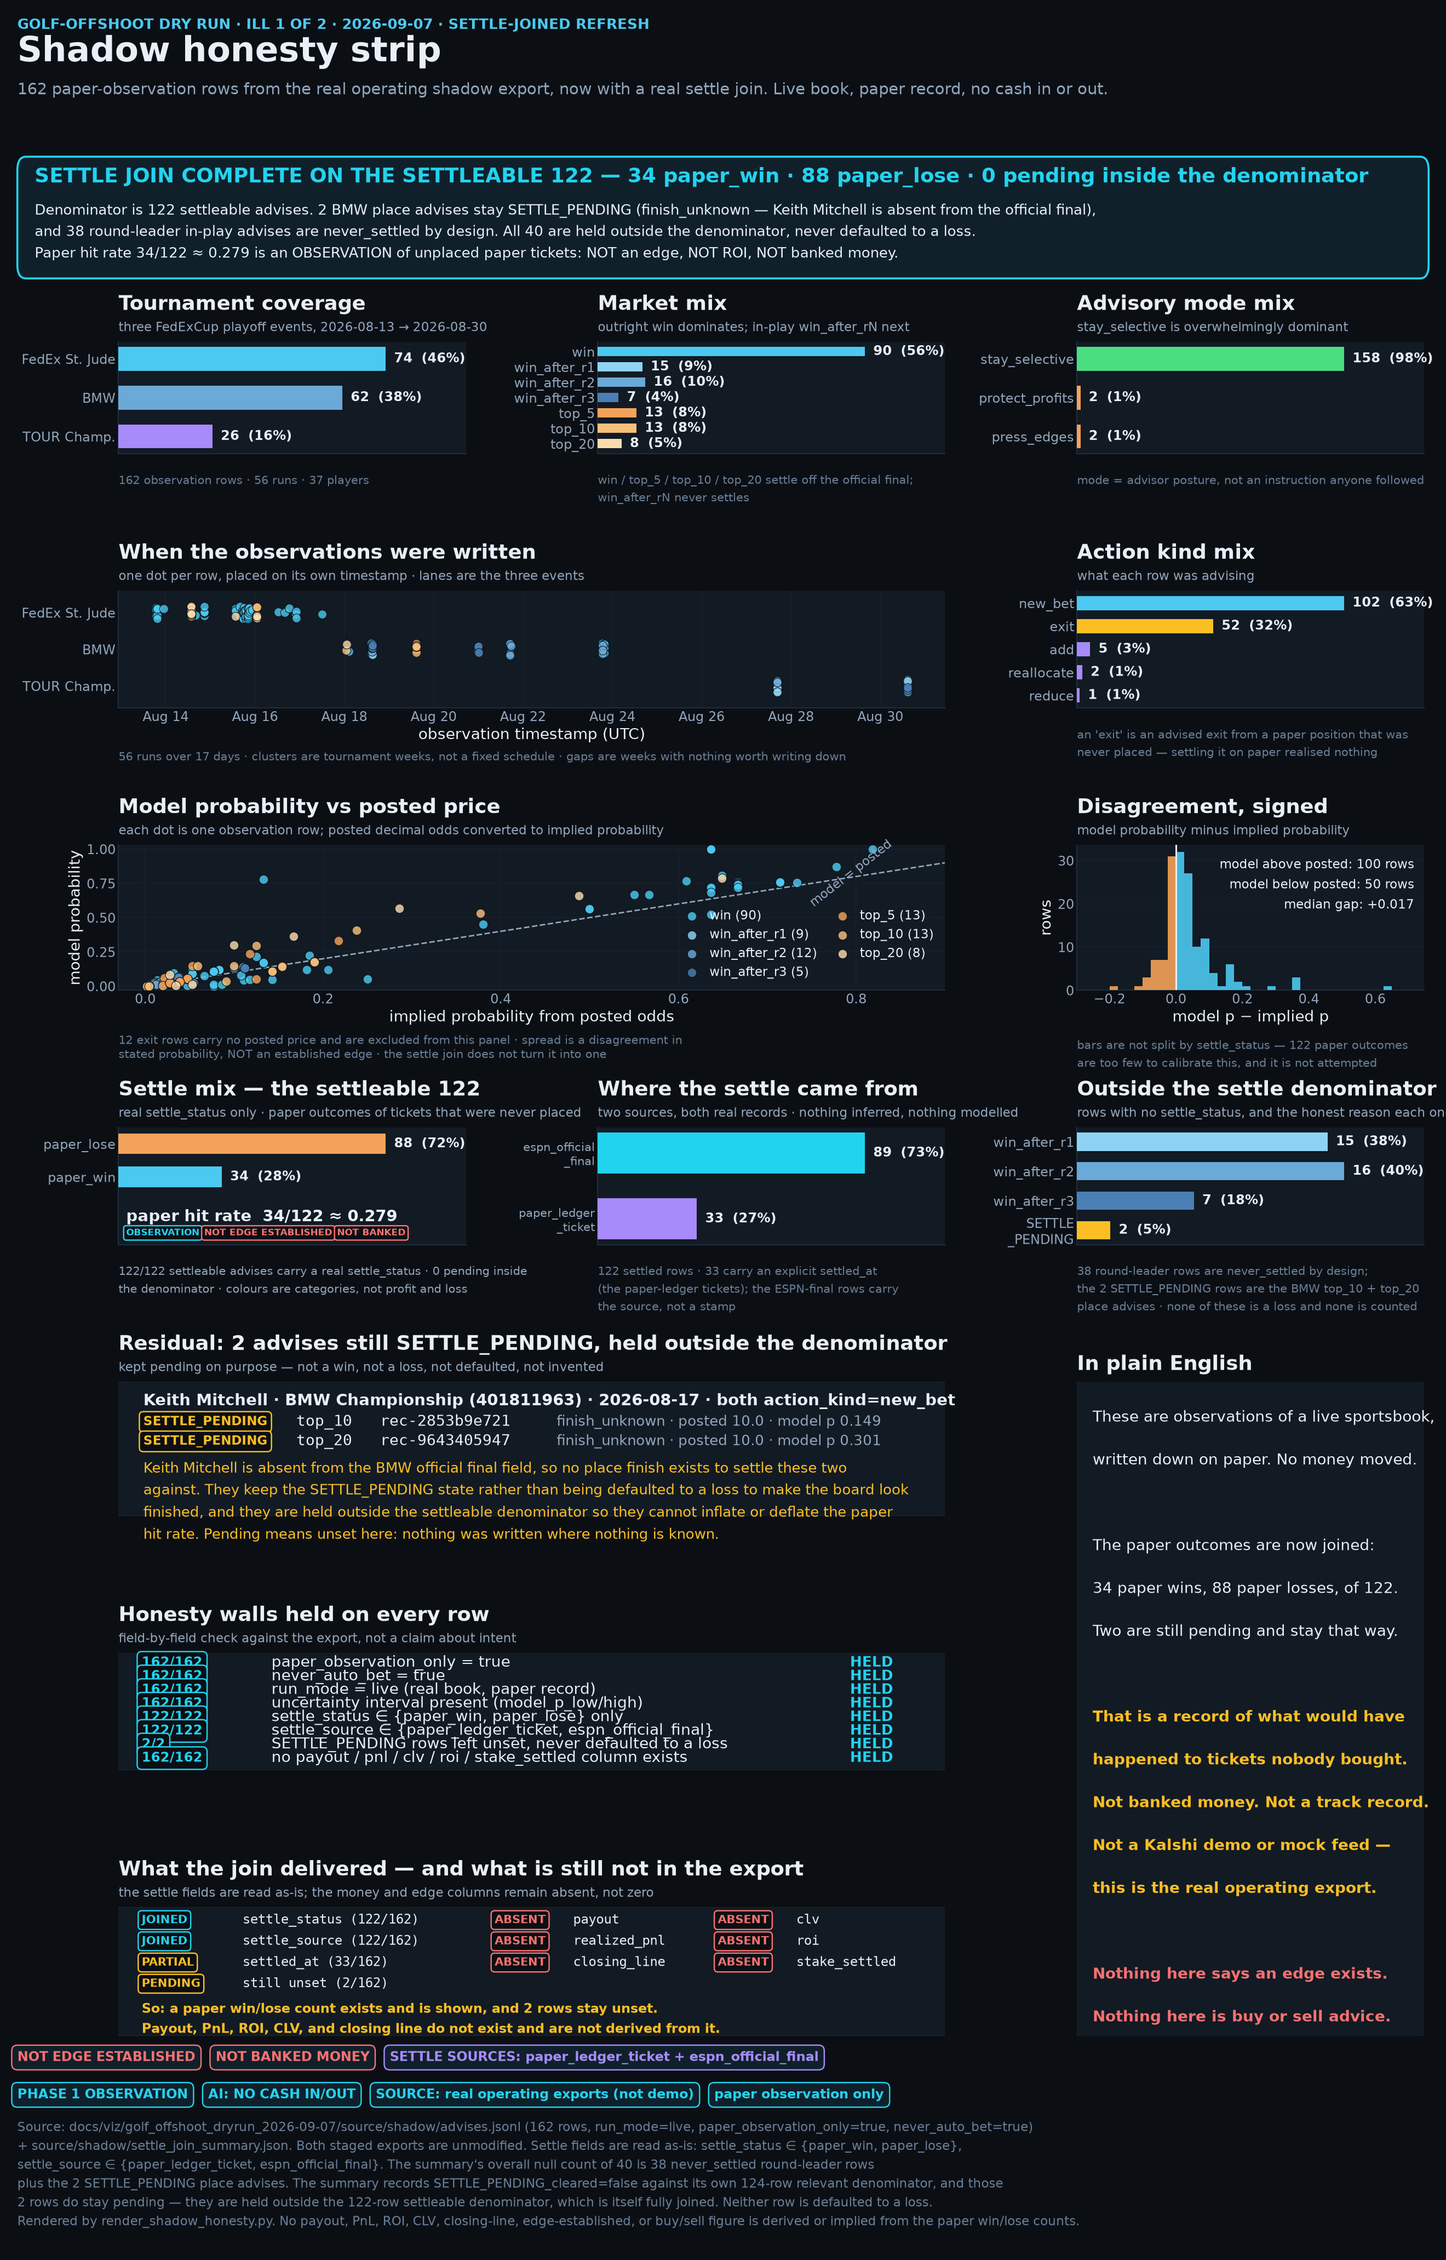
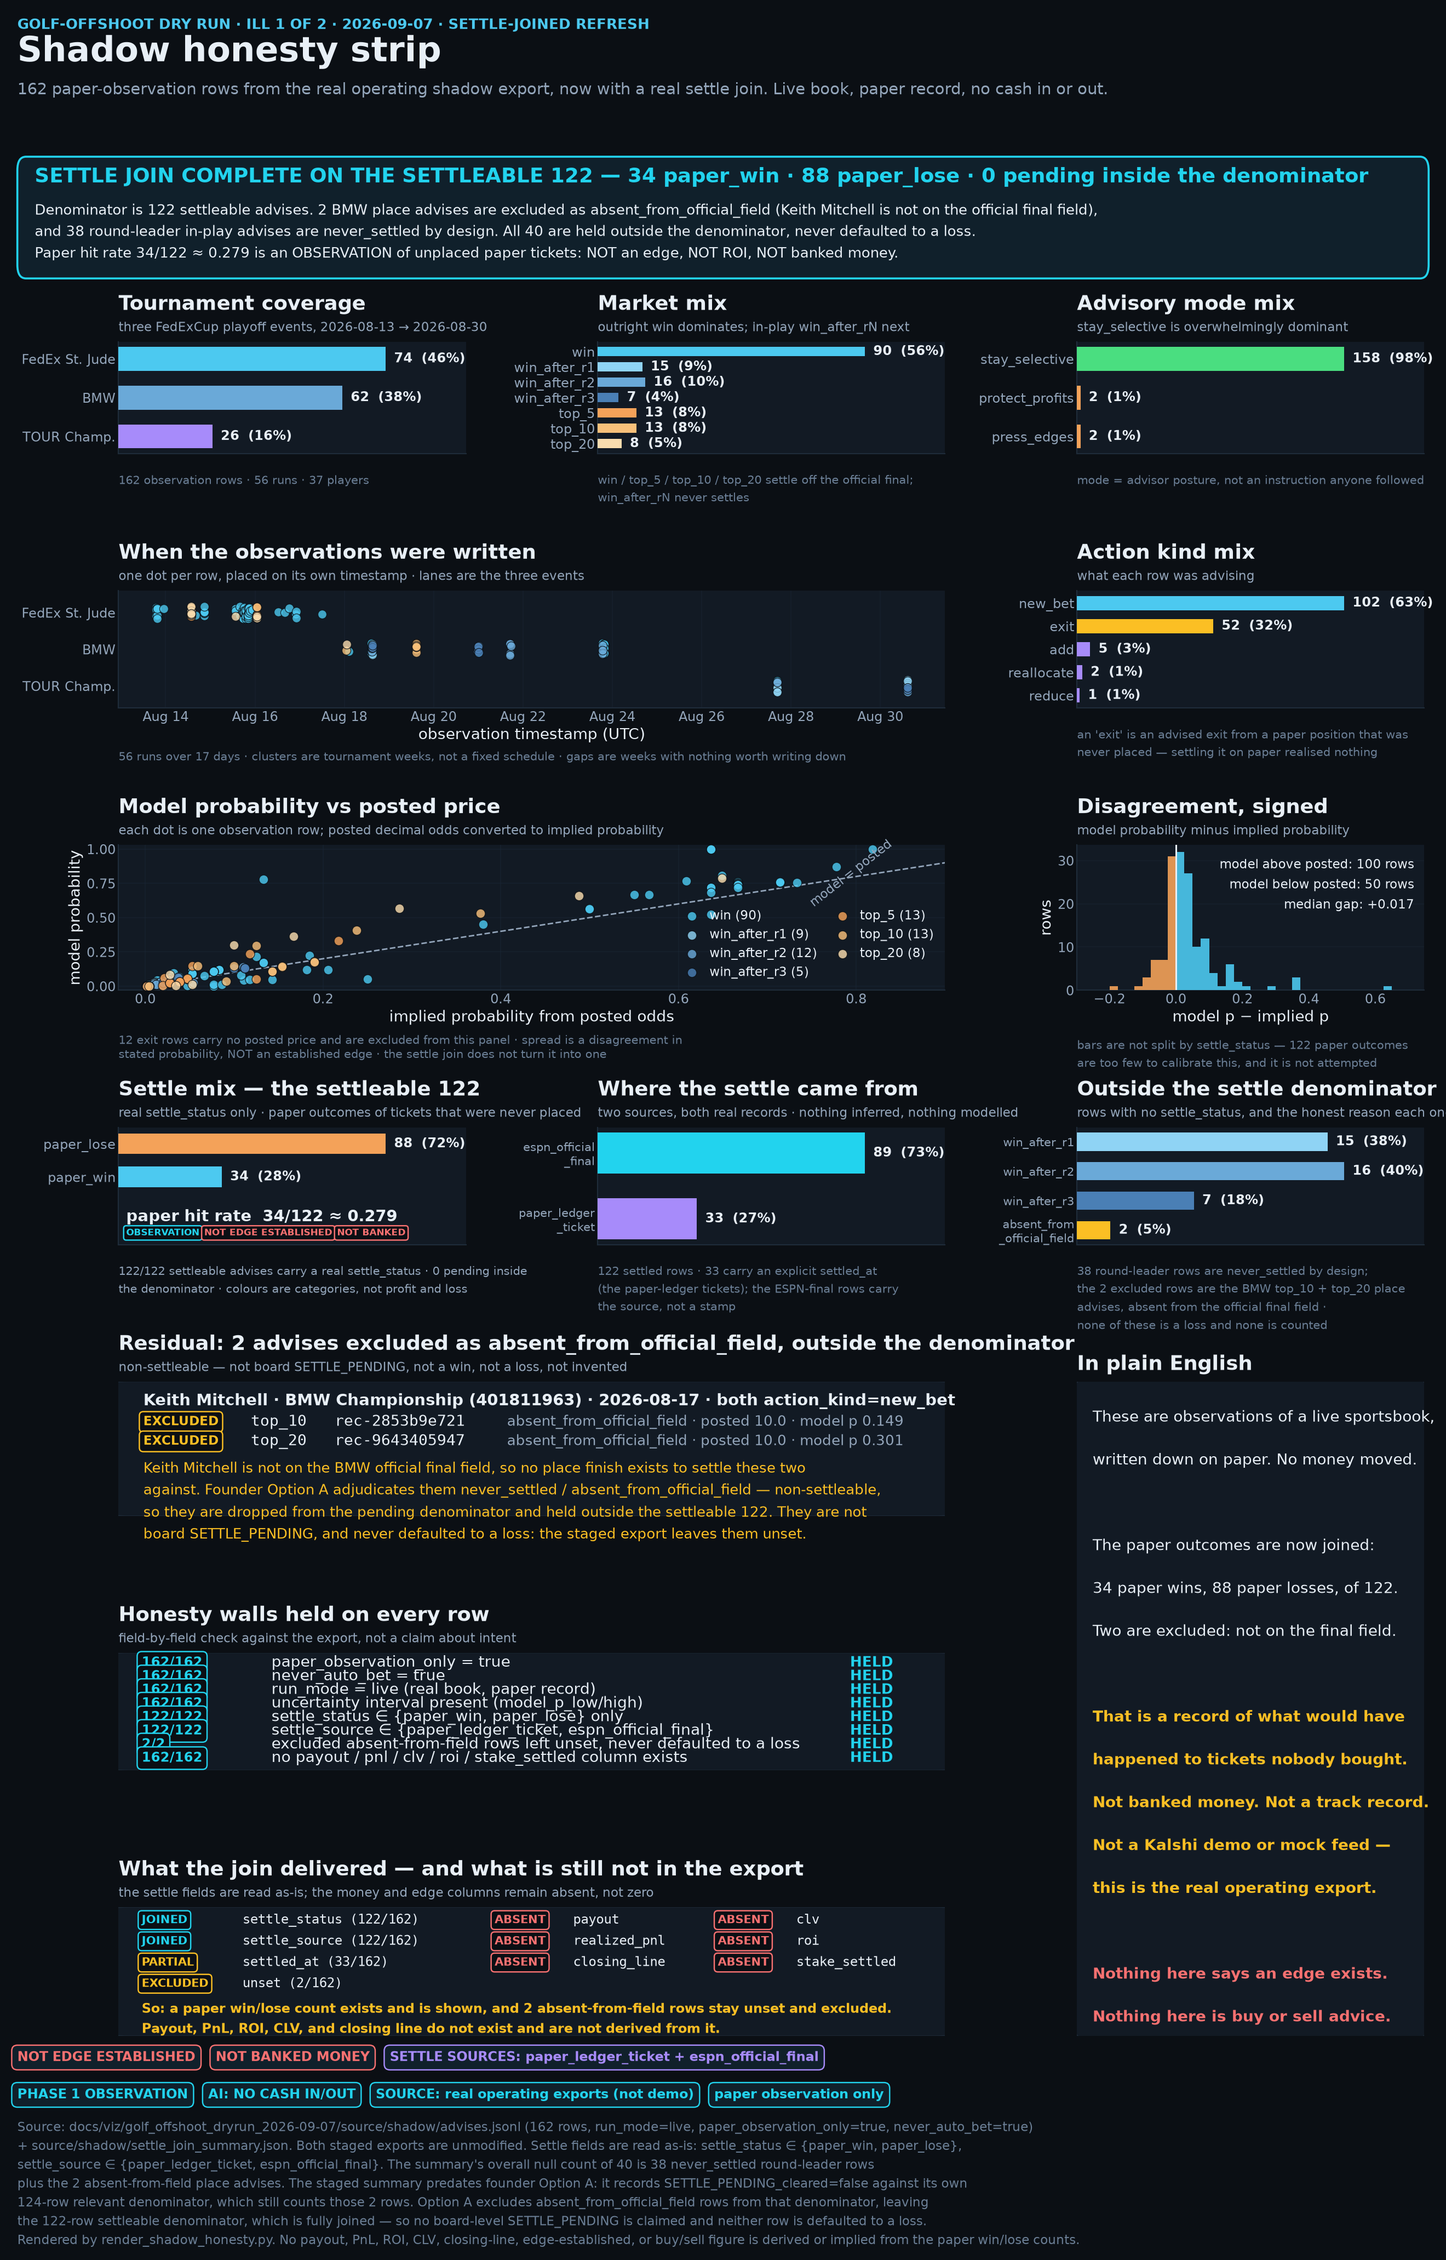
docs(viz): Ill 1 residual is excluded absent_from_official_field, not board SETTLE_PENDING
The 2 Keith Mitchell BMW place advises are adjudicated by founder Option A
(#144) as never_settled with settle_source
espn_official_final:absent_from_official_field: non-settleable, dropped from
the pending denominator. The residual callouts still said they 'keep
SETTLE_PENDING', which reads as a pending board state the board does not have.

Renames SETTLE_PENDING_KEYS -> ABSENT_FIELD_KEYS and the bucket key to
excluded_absent_field, retitles the residual panel, swaps its row chips to
EXCLUDED with the absent_from_official_field token, relabels the
out-of-denominator bar and the join-delivered chip, and restates the banner,
honesty wall, plain-English line and footer reconciliation the same way.

No board-level SETTLE_PENDING badge is reintroduced. Settleable 122 stays
34 paper_win / 88 paper_lose, 34/122 = 0.279 stays an observation with its
OBSERVATION / NOT EDGE ESTABLISHED / NOT BANKED chips, no Mitchell finish is
invented, and no edge, money or ROI claim is added.

diff --git a/docs/viz/golf_offshoot_dryrun_2026-09-07/render_shadow_honesty.py b/docs/viz/golf_offshoot_dryrun_2026-09-07/render_shadow_honesty.py
@@ -15,9 +15,10 @@ Denominator convention (founder Option A, Digestor digest is source of truth):
 
 * 122 **settleable** advises -> 88 ``paper_lose`` / 34 ``paper_win``, nothing pending
   inside the denominator. There is no board-level SETTLE_PENDING badge.
-* 2 BMW place advises stay ``SETTLE_PENDING`` because their finish is unknown (the
-  player is absent from the official final field). They are held outside the
-  denominator rather than guessed at: not wins, not losses, never defaulted.
+* 2 BMW place advises are **excluded** as ``absent_from_official_field``: the player is
+  not on the official STATUS_FINAL finisher list, so no finish exists to settle them
+  against. Non-settleable, dropped from the pending denominator — not board
+  SETTLE_PENDING, not wins, not losses, never defaulted.
 * 38 round-leader in-play advises are ``never_settled`` by design. Honest nulls, not losses.
 
 The paper hit rate is only ever drawn with an OBSERVATION / NOT EDGE ESTABLISHED /
@@ -65,11 +66,13 @@ ROUND_LEADER_MARKETS = {"win_after_r1", "win_after_r2", "win_after_r3"}
 ALLOWED_STATUS = {"paper_win", "paper_lose"}
 ALLOWED_SOURCES = {"paper_ledger_ticket", "espn_official_final"}
 
-# The 2 place advises that stay SETTLE_PENDING: Keith Mitchell did not appear in the
-# BMW Championship official final field, so there is no finish to settle against. They
-# keep the pending state and stay outside the settleable denominator; they are never
-# defaulted to a loss to make the board look finished.
-SETTLE_PENDING_KEYS = {
+# The 2 place advises excluded as absent_from_official_field: Keith Mitchell did not
+# appear in the BMW Championship official final field, so there is no finish to settle
+# against. Founder Option A adjudicates them never_settled / absent-from-field —
+# non-settleable, dropped from the pending denominator, and never defaulted to a loss to
+# make the board look finished. The staged export leaves their settle fields unset.
+ABSENT_FIELD_TOKEN = "absent_from_official_field"
+ABSENT_FIELD_KEYS = {
     ("401811963", "8906", "top_10"),
     ("401811963", "8906", "top_20"),
 }
@@ -135,7 +138,7 @@ def load_rows() -> tuple[list[dict], dict]:
     # 5. The settleable denominator is fully settled and the only rows outside it are
     #    the two adjudicated non-settleable place advises.
     unsettled = {row_key(r) for r in rows if r["market"] in SETTLEABLE_MARKETS and not r.get("settle_status")}
-    assert unsettled == SETTLE_PENDING_KEYS, f"unexpected unsettled settleable rows: {sorted(unsettled)}"
+    assert unsettled == ABSENT_FIELD_KEYS, f"unexpected unsettled settleable rows: {sorted(unsettled)}"
 
     # 6. The staged join summary and the raw rows have to agree, or one of them is stale.
     counted = Counter(r.get("settle_status") for r in rows)
@@ -148,16 +151,16 @@ def load_rows() -> tuple[list[dict], dict]:
 
 
 def buckets(rows: list[dict]) -> dict:
-    """Split the 162 rows into the four mutually exclusive settle buckets."""
-    pending = [r for r in rows if row_key(r) in SETTLE_PENDING_KEYS]
+    """Split the 162 rows into the three mutually exclusive settle buckets."""
+    excluded = [r for r in rows if row_key(r) in ABSENT_FIELD_KEYS]
     settled = [r for r in rows if r.get("settle_status")]
     never_settled = [r for r in rows if r["market"] in ROUND_LEADER_MARKETS]
     out = {
         "settled": settled,
-        "settle_pending": pending,
+        "excluded_absent_field": excluded,
         "never_settled": never_settled,
     }
-    assert len(settled) + len(pending) + len(never_settled) == len(rows), "buckets do not partition the export"
+    assert len(settled) + len(excluded) + len(never_settled) == len(rows), "buckets do not partition the export"
     return out
 
 
@@ -392,8 +395,8 @@ def draw_settle_sources(ax, rows):
 
 def draw_out_of_denominator(ax, rows):
     leader = Counter(r["market"] for r in rows if r["market"] in ROUND_LEADER_MARKETS)
-    labels = ["win_after_r1", "win_after_r2", "win_after_r3", "SETTLE\n_PENDING"]
-    values = [leader["win_after_r1"], leader["win_after_r2"], leader["win_after_r3"], len(SETTLE_PENDING_KEYS)]
+    labels = ["win_after_r1", "win_after_r2", "win_after_r3", "absent_from\n_official_field"]
+    values = [leader["win_after_r1"], leader["win_after_r2"], leader["win_after_r3"], len(ABSENT_FIELD_KEYS)]
     kit.panel(
         ax,
         "Outside the settle denominator",
@@ -405,17 +408,19 @@ def draw_out_of_denominator(ax, rows):
         values,
         [MARKET_COLOR["win_after_r1"], MARKET_COLOR["win_after_r2"], MARKET_COLOR["win_after_r3"], kit.PENDING],
         total=sum(values),
-        note=f"{sum(values) - len(SETTLE_PENDING_KEYS)} round-leader rows are never_settled by design;\n"
-        f"the {len(SETTLE_PENDING_KEYS)} SETTLE_PENDING rows are the BMW top_10 + top_20\n"
-        "place advises · none of these is a loss and none is counted",
+        note=f"{sum(values) - len(ABSENT_FIELD_KEYS)} round-leader rows are never_settled by design;\n"
+        f"the {len(ABSENT_FIELD_KEYS)} excluded rows are the BMW top_10 + top_20 place\n"
+        "advises, absent from the official final field ·\n"
+        "none of these is a loss and none is counted",
+        labelsize=14,
     )
 
 
 def draw_residual(ax):
     kit.text_panel(
         ax,
-        "Residual: 2 advises still SETTLE_PENDING, held outside the denominator",
-        "kept pending on purpose — not a win, not a loss, not defaulted, not invented",
+        f"Residual: 2 advises excluded as {ABSENT_FIELD_TOKEN}, outside the denominator",
+        "non-settleable — not board SETTLE_PENDING, not a win, not a loss, not invented",
     )
     ax.text(
         0.030,
@@ -433,9 +438,9 @@ def draw_residual(ax):
     ]
     for i, (market, rec, detail) in enumerate(entries):
         y = 0.700 - i * 0.145
-        kit.chip(ax, 0.030, y, "SETTLE_PENDING", kit.PENDING, fontsize=15, pad=0.32)
+        kit.chip(ax, 0.030, y, "EXCLUDED", kit.PENDING, fontsize=15, pad=0.32)
         ax.text(
-            0.215,
+            0.160,
             y,
             f"{market:<7}  {rec}",
             transform=ax.transAxes,
@@ -444,14 +449,22 @@ def draw_residual(ax):
             color=kit.TEXT,
             family="DejaVu Sans Mono",
         )
-        ax.text(0.530, y, f"finish_unknown · {detail}", transform=ax.transAxes, va="center", fontsize=17, color=kit.MUTED)
+        ax.text(
+            0.470,
+            y,
+            f"{ABSENT_FIELD_TOKEN} · {detail}",
+            transform=ax.transAxes,
+            va="center",
+            fontsize=17,
+            color=kit.MUTED,
+        )
     ax.text(
         0.030,
         0.435,
-        "Keith Mitchell is absent from the BMW official final field, so no place finish exists to settle these two\n"
-        "against. They keep the SETTLE_PENDING state rather than being defaulted to a loss to make the board look\n"
-        "finished, and they are held outside the settleable denominator so they cannot inflate or deflate the paper\n"
-        "hit rate. Pending means unset here: nothing was written where nothing is known.",
+        "Keith Mitchell is not on the BMW official final field, so no place finish exists to settle these two\n"
+        "against. Founder Option A adjudicates them never_settled / absent_from_official_field — non-settleable,\n"
+        "so they are dropped from the pending denominator and held outside the settleable 122. They are not\n"
+        "board SETTLE_PENDING, and never defaulted to a loss: the staged export leaves them unset.",
         transform=ax.transAxes,
         va="top",
         fontsize=17,
@@ -586,9 +599,9 @@ def draw_walls(ax, rows):
             len(settled),
         ),
         (
-            "SETTLE_PENDING rows left unset, never defaulted to a loss",
-            sum(1 for r in rows if row_key(r) in SETTLE_PENDING_KEYS and r.get("settle_status") is None),
-            len(SETTLE_PENDING_KEYS),
+            "excluded absent-from-field rows left unset, never defaulted to a loss",
+            sum(1 for r in rows if row_key(r) in ABSENT_FIELD_KEYS and r.get("settle_status") is None),
+            len(ABSENT_FIELD_KEYS),
         ),
         ("no payout / pnl / clv / roi / stake_settled column exists", n, n),
     ]
@@ -626,12 +639,12 @@ def draw_columns(ax, rows):
         "What the join delivered — and what is still not in the export",
         "the settle fields are read as-is; the money and edge columns remain absent, not zero",
     )
-    state_color = {"JOINED": kit.WALL, "PARTIAL": kit.PENDING, "PENDING": kit.PENDING}
+    state_color = {"JOINED": kit.WALL, "PARTIAL": kit.PENDING, "EXCLUDED": kit.PENDING}
     joined = [
         (f"settle_status ({settled}/{len(rows)})", "JOINED"),
         (f"settle_source ({settled}/{len(rows)})", "JOINED"),
         (f"settled_at ({dated}/{len(rows)})", "PARTIAL"),
-        (f"still unset ({len(SETTLE_PENDING_KEYS)}/{len(rows)})", "PENDING"),
+        (f"unset ({len(ABSENT_FIELD_KEYS)}/{len(rows)})", "EXCLUDED"),
     ]
     for i, (name, state) in enumerate(joined):
         y = 0.900 - i * 0.165
@@ -663,7 +676,7 @@ def draw_columns(ax, rows):
     ax.text(
         0.028,
         0.285,
-        "So: a paper win/lose count exists and is shown, and 2 rows stay unset.\n"
+        "So: a paper win/lose count exists and is shown, and 2 absent-from-field rows stay unset and excluded.\n"
         "Payout, PnL, ROI, CLV, and closing line do not exist and are not derived from it.",
         transform=ax.transAxes,
         va="top",
@@ -684,7 +697,7 @@ def draw_plain_english(ax, rows):
         ("", kit.TEXT),
         ("The paper outcomes are now joined:", kit.TEXT),
         (f"{wins} paper wins, {len(settled) - wins} paper losses, of {len(settled)}.", kit.TEXT),
-        ("Two are still pending and stay that way.", kit.TEXT),
+        ("Two are excluded: not on the final field.", kit.TEXT),
         ("", kit.TEXT),
         ("That is a record of what would have", kit.PENDING),
         ("happened to tickets nobody bought.", kit.PENDING),
@@ -744,10 +757,10 @@ def main() -> None:
         banner_h,
         f"SETTLE JOIN COMPLETE ON THE SETTLEABLE {len(settled)} — {wins} paper_win · {len(settled) - wins} paper_lose · "
         "0 pending inside the denominator",
-        f"Denominator is {len(settled)} settleable advises. {len(parts['settle_pending'])} BMW place advises stay SETTLE_PENDING "
-        "(finish_unknown — Keith Mitchell is absent from the official final),\n"
+        f"Denominator is {len(settled)} settleable advises. {len(parts['excluded_absent_field'])} BMW place advises are excluded as "
+        f"{ABSENT_FIELD_TOKEN} (Keith Mitchell is not on the official final field),\n"
         f"and {len(parts['never_settled'])} round-leader in-play advises are never_settled by design. All "
-        f"{len(parts['settle_pending']) + len(parts['never_settled'])} are held outside the denominator, never defaulted to a loss.\n"
+        f"{len(parts['excluded_absent_field']) + len(parts['never_settled'])} are held outside the denominator, never defaulted to a loss.\n"
         f"Paper hit rate {wins}/{len(settled)} ≈ {wins / len(settled):.3f} is an OBSERVATION of unplaced paper tickets: "
         "NOT an edge, NOT ROI, NOT banked money.",
     )
@@ -790,10 +803,12 @@ def main() -> None:
             "as-is: settle_status ∈ {paper_win, paper_lose},",
             "settle_source ∈ {paper_ledger_ticket, espn_official_final}. The summary's overall null count of "
             f"{summary['settle_status_all']['null']} is {len(parts['never_settled'])} never_settled round-leader rows",
-            f"plus the {len(parts['settle_pending'])} SETTLE_PENDING place advises. The summary records "
-            f"SETTLE_PENDING_cleared=false against its own {summary['relevant_n']}-row relevant denominator, and those",
-            f"{len(parts['settle_pending'])} rows do stay pending — they are held outside the {len(settled)}-row settleable "
-            "denominator, which is itself fully joined. Neither row is defaulted to a loss.",
+            f"plus the {len(parts['excluded_absent_field'])} absent-from-field place advises. The staged summary predates founder "
+            "Option A: it records SETTLE_PENDING_cleared=false against its own",
+            f"{summary['relevant_n']}-row relevant denominator, which still counts those "
+            f"{len(parts['excluded_absent_field'])} rows. Option A excludes {ABSENT_FIELD_TOKEN} rows from that denominator, leaving",
+            f"the {len(settled)}-row settleable denominator, which is fully joined — so no board-level SETTLE_PENDING is claimed "
+            "and neither row is defaulted to a loss.",
             "Rendered by render_shadow_honesty.py. No payout, PnL, ROI, CLV, closing-line, edge-established, or "
             "buy/sell figure is derived or implied from the paper win/lose counts.",
         ],
@@ -804,7 +819,8 @@ def main() -> None:
     print(
         f"wrote {OUT} ({w}x{h}px) from {len(rows)} rows · "
         f"settleable {len(settled)} ({wins} paper_win / {len(settled) - wins} paper_lose, 0 pending inside) · "
-        f"held outside: {len(parts['settle_pending'])} SETTLE_PENDING + {len(parts['never_settled'])} never_settled"
+        f"held outside: {len(parts['excluded_absent_field'])} excluded {ABSENT_FIELD_TOKEN} "
+        f"+ {len(parts['never_settled'])} never_settled"
     )
 
 
